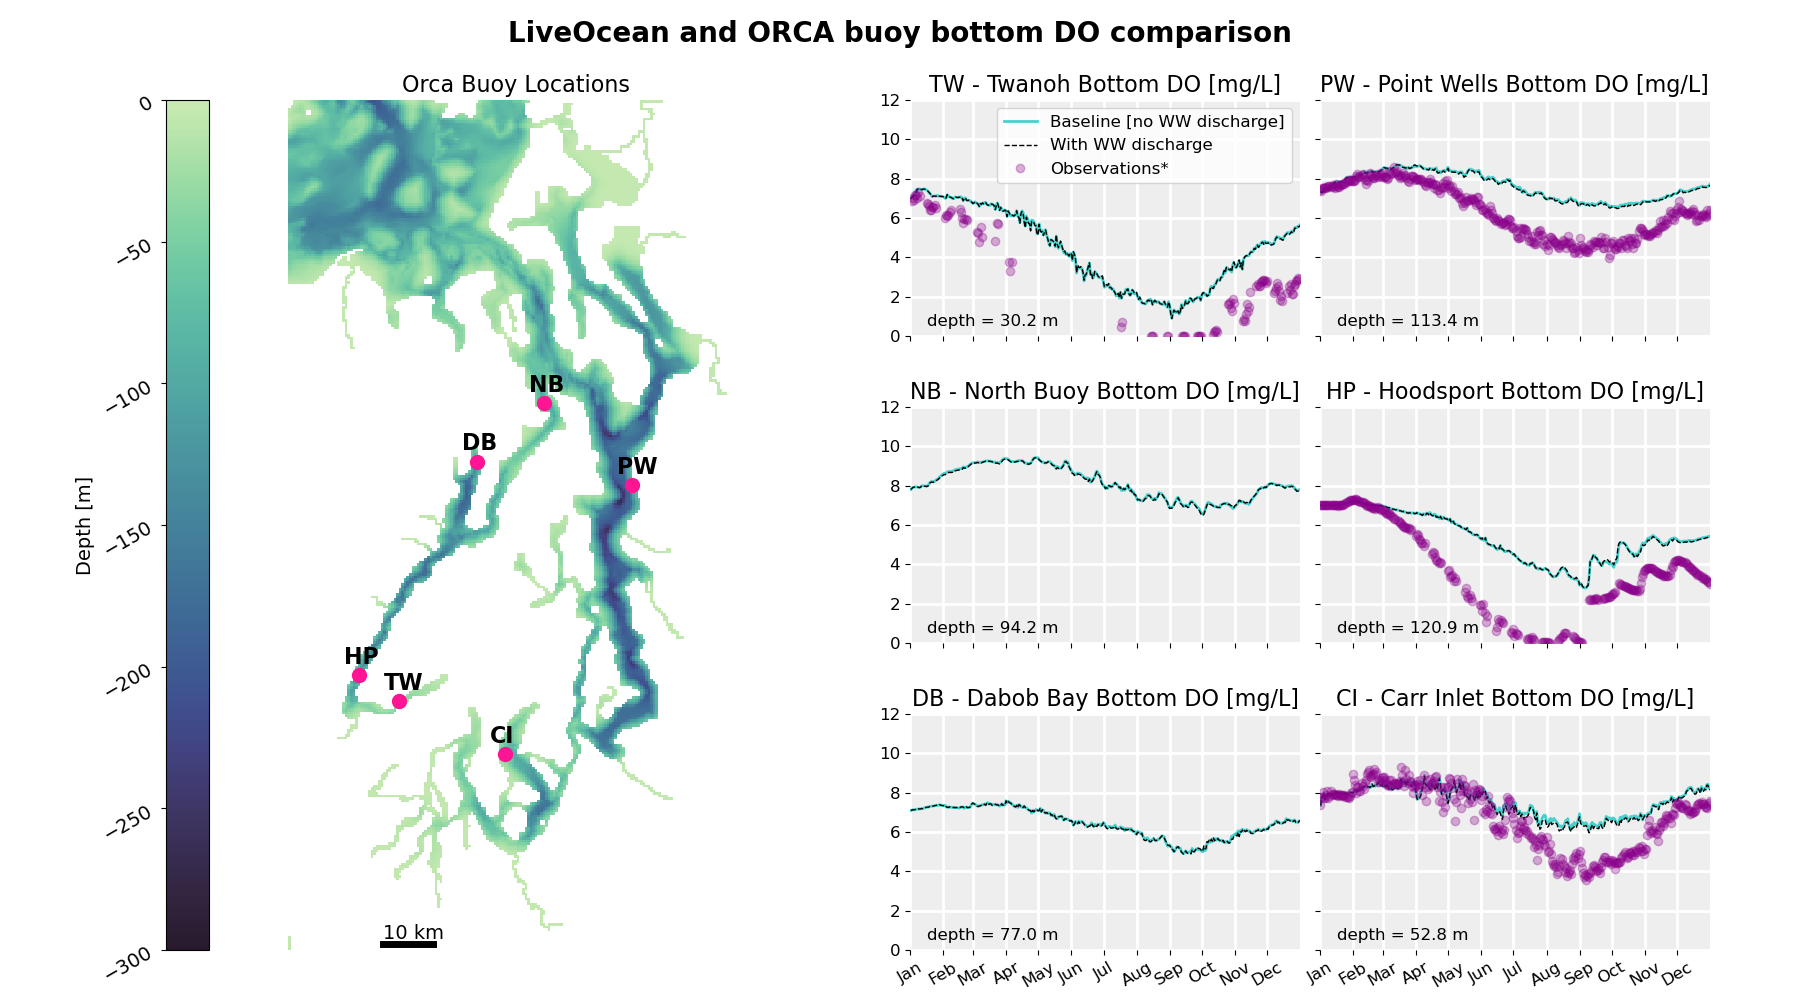
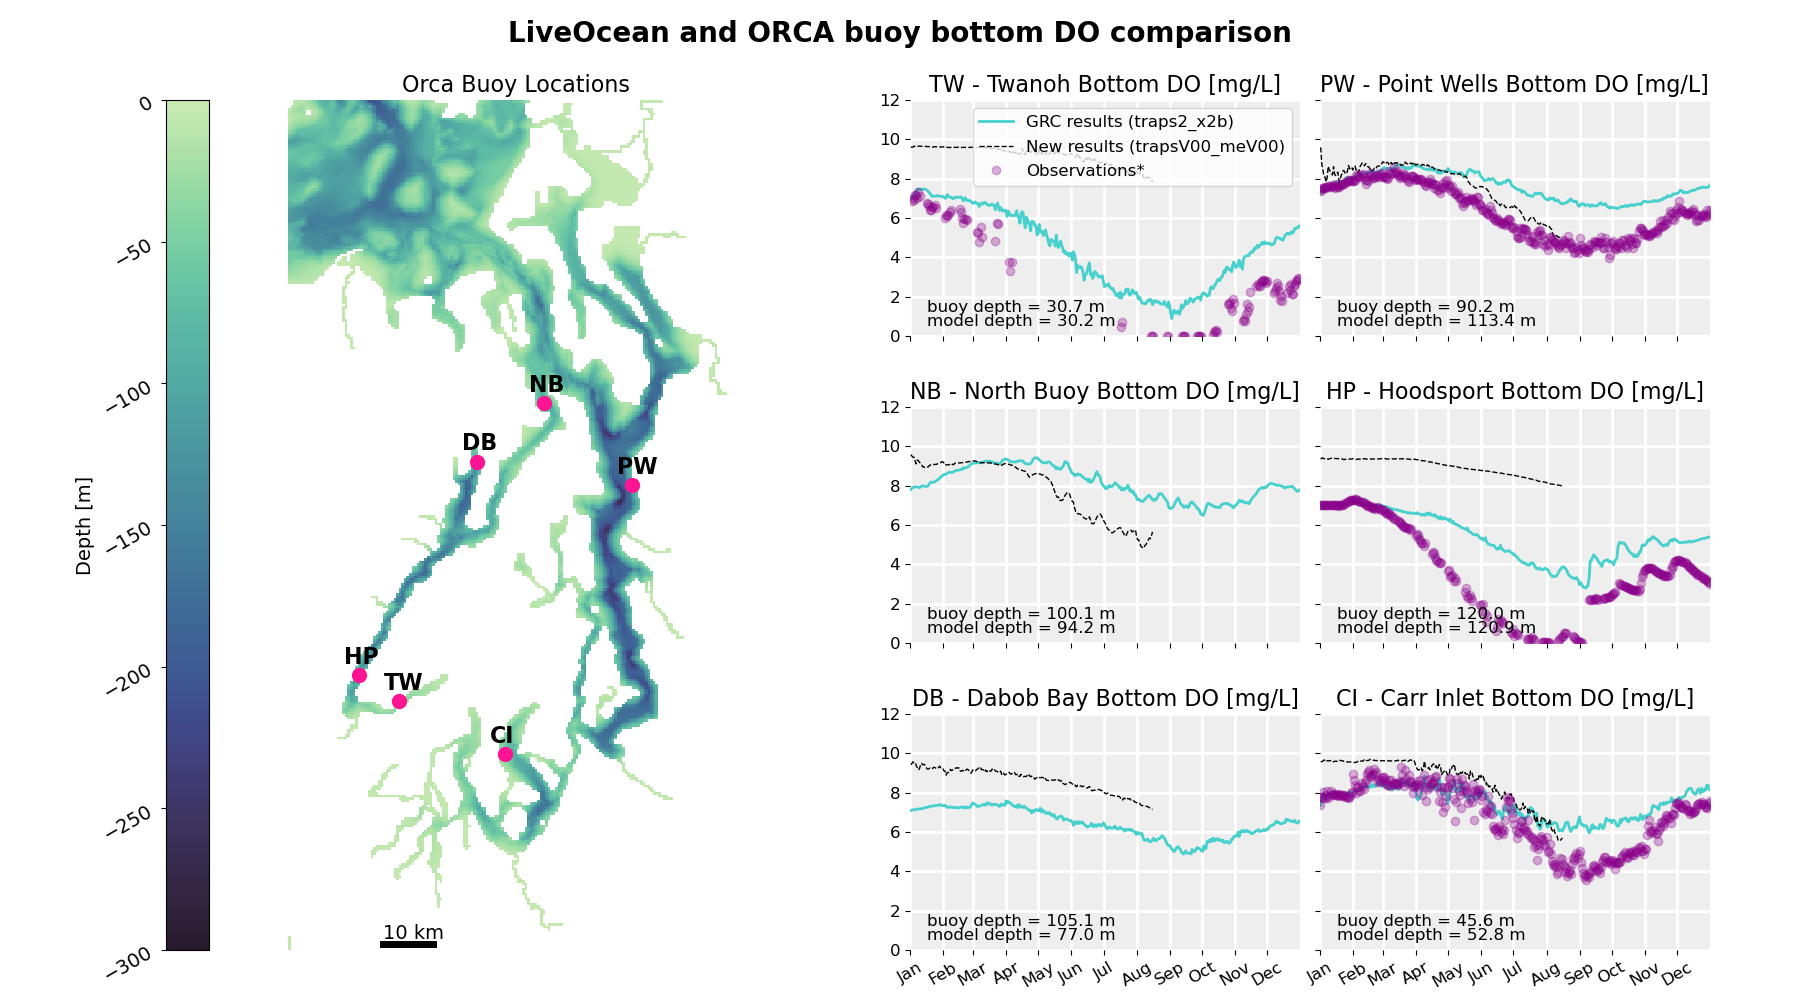
new orca buoy DO comparison figure

diff --git a/plotting/orca-buoy-comparison.py b/plotting/orca-buoy-comparison.py
@@ -3,7 +3,7 @@ Plots a comparison of bottom DO for two identical grids with different oxygen va
 
 This is a custom function for a particular experiment, but code can be adapted for other use cases in the future.
 
-From the terminal: python money_plot.py
+From the terminal: python orca-buoy-comparison.py
 
 """
 
@@ -108,15 +108,15 @@ titles = ['TW - Twanoh','PW - Point Wells','NB - North Buoy', 'HP - Hoodsport', 
 for i,orca in enumerate(orca_nc):
     # create subplot
     ax = fig.add_subplot(3,4,fig_no[i])
-    # Add baseline and create timevector
-    ds_baseline = xr.open_dataset('/home/aleeson/LO_output/extract/cas6_traps3_x2b/moor/orca/'+orca+'_2017.01.01_2017.12.31.nc')
+    # Add GRC case and create timevector
+    ds_baseline = xr.open_dataset('/home/aleeson/LO_output/extract/cas6_traps2_x2b/moor/orca/'+orca+'_2017.01.01_2017.12.31.nc')
     DO_baseline = ds_baseline['oxygen'][:,0]*pinfo.fac_dict['oxygen'] # bottom DO
     year_time = ds_baseline['ocean_time']
-    ax.plot(year_time,DO_baseline,linestyle='-',color='mediumturquoise',linewidth=2, label='Baseline [no WW discharge]')
-    # Add with WWTP DIN case
-    ds_WWTPDIN = xr.open_dataset('/home/aleeson/LO_output/extract/cas6_traps2_x2b/moor/orca/'+orca+'_2017.01.01_2017.12.31.nc')
+    ax.plot(year_time,DO_baseline,linestyle='-',color='mediumturquoise',linewidth=2, label='GRC results (traps2_x2b)')
+    # Add model evaluation results
+    ds_WWTPDIN = xr.open_dataset('/home/aleeson/LO_output/extract/cas7_trapsV00_meV00/moor/orca/'+orca+'_2017.01.01_2017.08.15.nc')
     DO_WWTPDIN = ds_WWTPDIN['oxygen'][:,0]*pinfo.fac_dict['oxygen'] # bottom DO
-    ax.plot(year_time,DO_WWTPDIN,linestyle='--',color='k',linewidth=1,label='With WW discharge')
+    ax.plot(year_time[0:227],DO_WWTPDIN,linestyle='--',color='k',linewidth=1,label='New results (trapsV00_meV00)')
     # add title
     ax.set_title(titles[i] + ' Bottom DO [mg/L]',fontsize=16)
     # format y labels
@@ -148,7 +148,8 @@ for i,orca in enumerate(orca_nc):
     if i == 0:
         ax.legend(loc='upper right',fontsize=12)
     # add water depth
-    ax.text(year_time[15],0.5,'depth = {} m'.format(round(-1*np.mean(ds_baseline['z_rho'][:,0].values),1)),fontsize=12)
+    ax.text(year_time[15],1.2,'buoy depth = {} m'.format(round(ds_orca.depth.values[-1],1)),fontsize=12)
+    ax.text(year_time[15],0.5,'model depth = {} m'.format(round(-1*np.mean(ds_baseline['z_rho'][:,0].values),1)),fontsize=12)
 
 
 # Generate plot